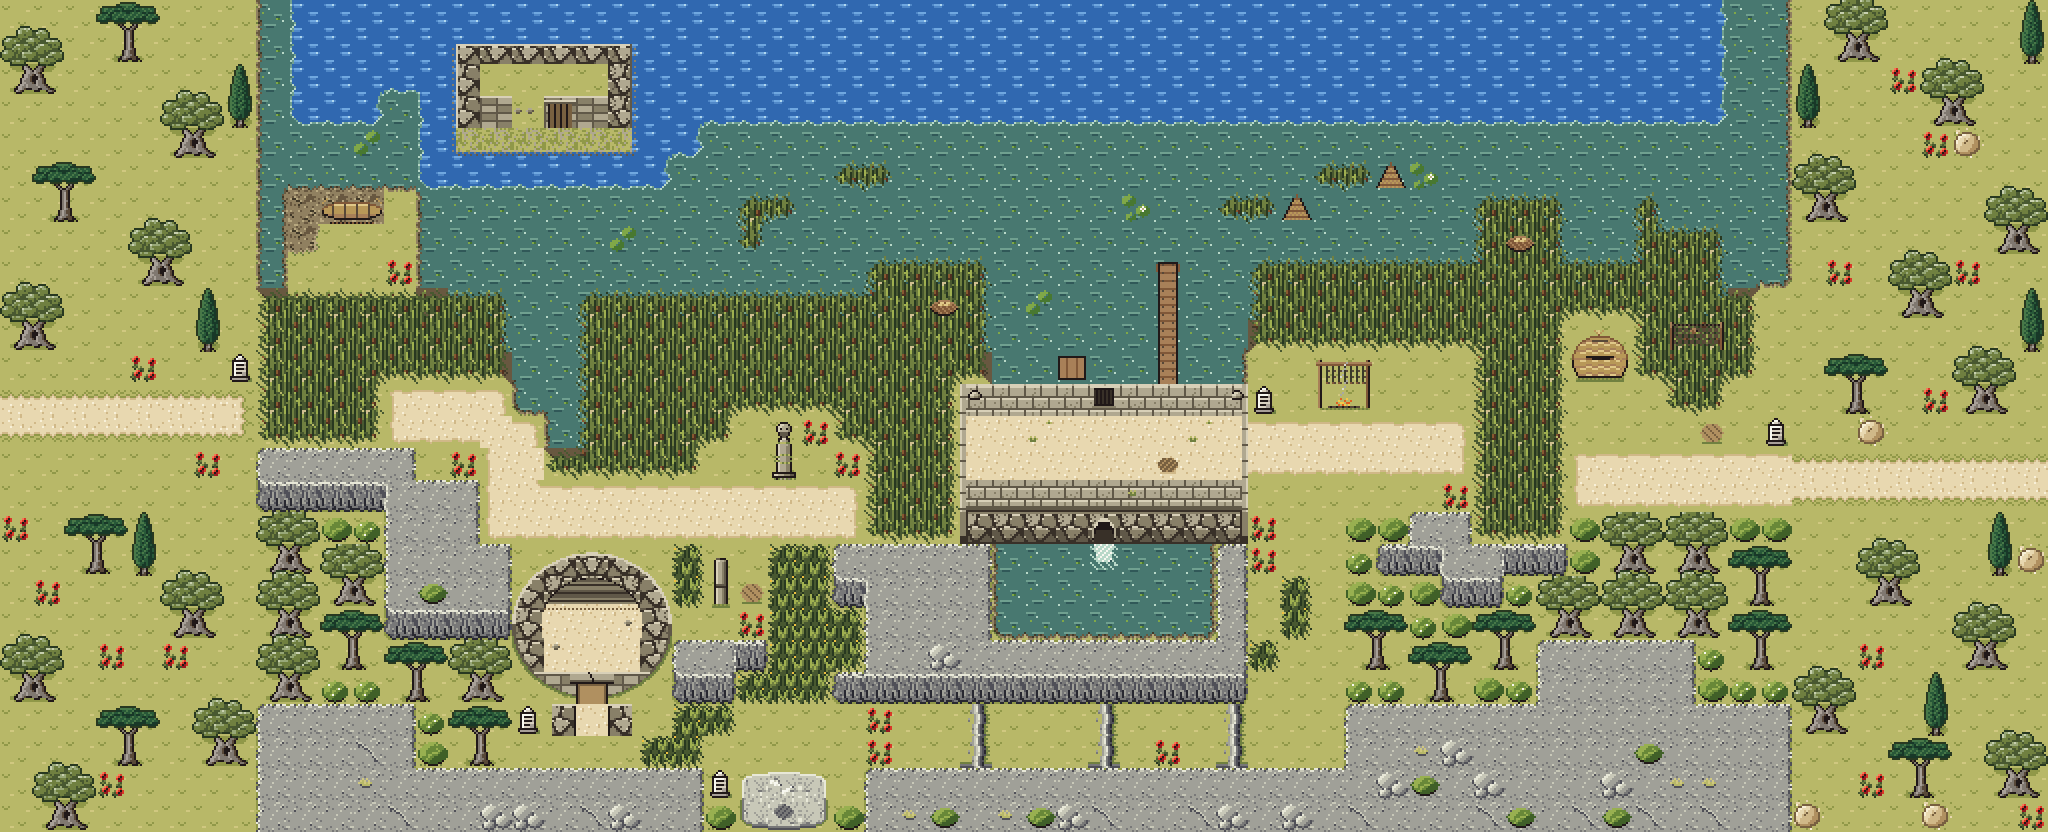
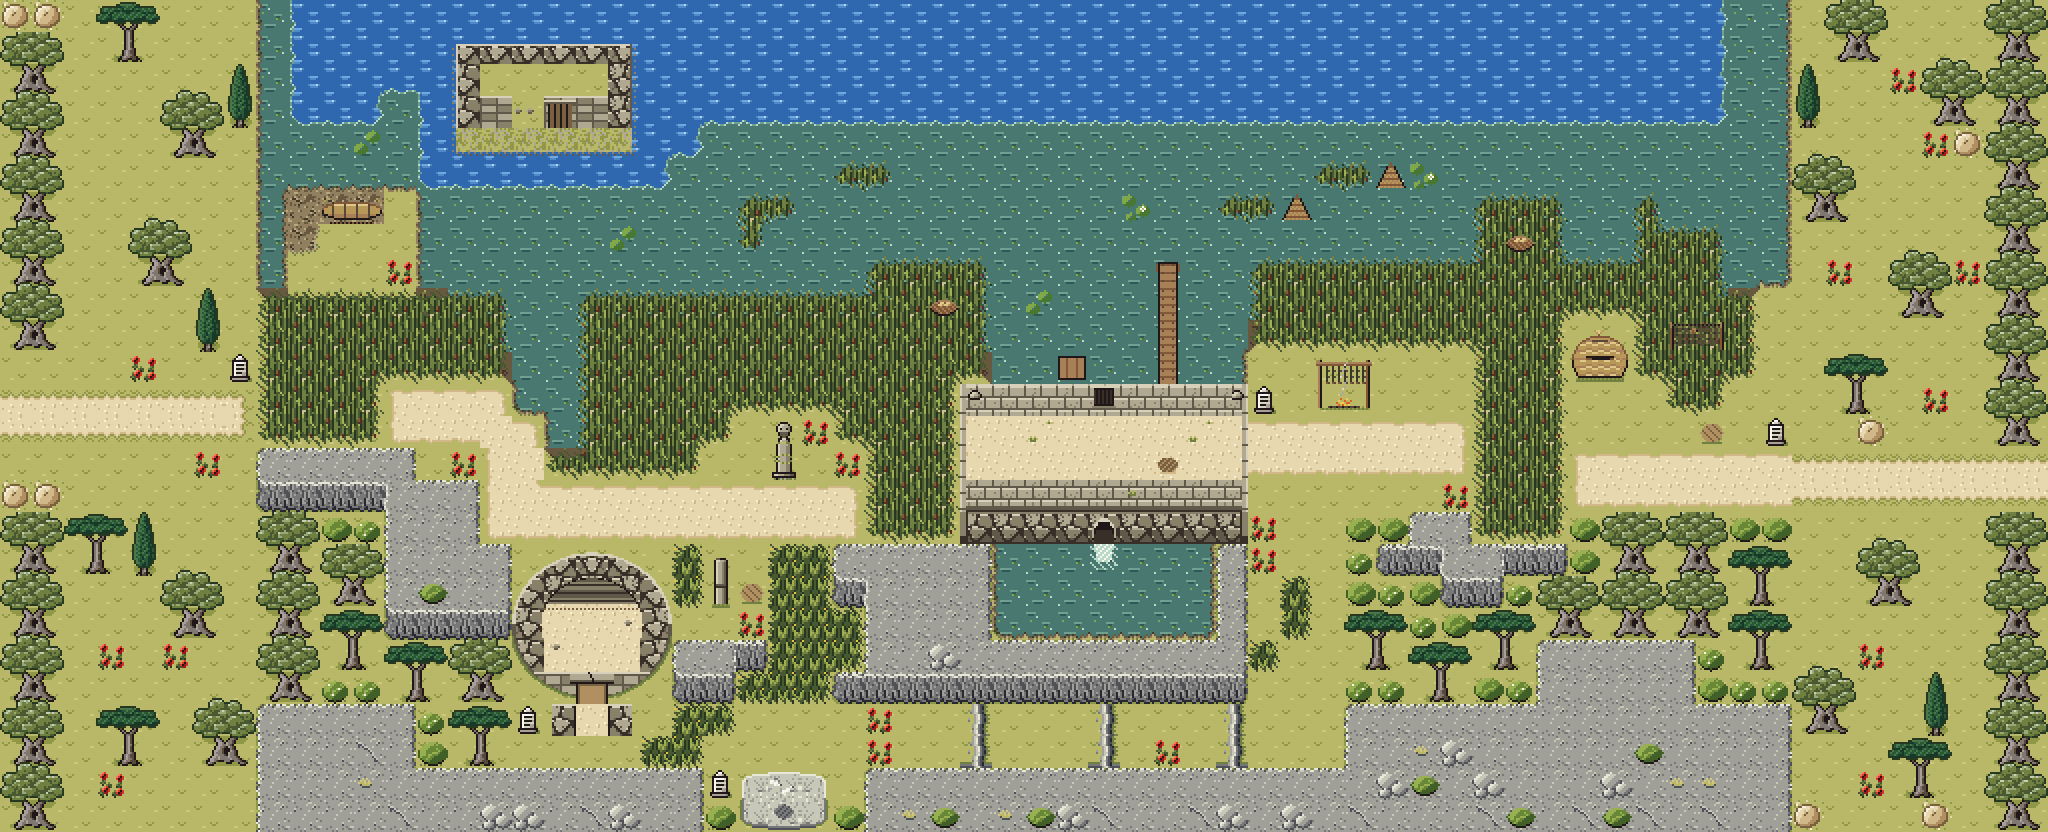
feat(map): bring Route 8 up to the route standard
MAP_DESIGN section 8 asks an 11-screen middle route for seven trainers, and its
audit found both edges open the whole height into the neighbors' rock. Two
Boeotian trainers join the road (Pelopidas in band 2, Megareus at Onchestos),
the edges close to the agreed road rows, and Route 8's own connection to Thyrsa
lets the audit measure the forced grass (10 cells).

diff --git a/tools/ichor/maps/kopais.py b/tools/ichor/maps/kopais.py
@@ -482,6 +482,7 @@ def stamps(m):
             m.named("water_bits", n, x, y)
     # aethos trees and signs
     m.olives = set()
+    edge_walls(m)
     m.put(7, 11, STELE)                                          # the west sign
     m.put(55, 13, STELE)                                         # the east sign
     m.put(39, 12, STELE)                                         # the dike's sign
@@ -508,6 +509,30 @@ def stamps(m):
             m.put(x, y, BOULDER)
 
 
+def edge_walls(m):
+    """Close both edges except where the roads cross the seams (Lebadeia's road and
+    verges, rows 11-14; Thyrsa's gate road, rows 14-15): a column of olives along each
+    edge, stacked crown over trunk, with a boulder where a pair of rows is left over."""
+    def column(x, rows):
+        rows = list(rows)
+        while len(rows) >= 2:
+            pass_rows = rows[-2:]
+            y = pass_rows[0]
+            below = (x, y + 2) in m.olives
+            m.put(x, y, OLIVE_TOP[0]); m.put(x + 1, y, OLIVE_TOP[1])
+            bot = OLIVE_STACK if below else OLIVE_BOT
+            m.put(x, y + 1, bot[0]); m.put(x + 1, y + 1, bot[1])
+            m.olives.add((x, y))
+            rows = rows[:-2]
+        for y in rows:
+            m.put(x, y, BOULDER)
+            m.put(x + 1, y, BOULDER)
+    column(0, range(0, WEST_ROAD - 1))                     # rows 0-10
+    column(0, range(WEST_ROAD + 3, H))                     # rows 15-25
+    column(62, range(0, EAST_ROAD))                        # rows 0-13
+    column(62, range(EAST_ROAD + 2, H))                    # rows 16-25
+
+
 def tree(m, x, y, kind):
     if any((xx, yy) in m.stamped or m.at(xx, yy) != "." for xx in (x, x + 1) for yy in (y, y + 1)):
         return
@@ -526,6 +551,10 @@ def events(m):
     E = {
         "connections": [
             {"map": "MAP_LEBADEIA", "offset": 0, "direction": "left"},
+            # Thyrsa's Neistan Gate: its west edge is open on rows 23-24, Route 8's east
+            # edge on rows 14-15 (BUILD.md, q = 14). Thyrsa's side ("left", offset +9) is
+            # added at integration.
+            {"map": "MAP_THYRSA_CITY", "offset": EAST_ROAD - 23, "direction": "right"},
         ],
         "object_events": [
             # the east end: Gorgidas netting birds at the reed edge, Alethea's first note
@@ -544,6 +573,13 @@ def events(m):
             obj(P + "MAN", 25, 14, S8 + "Traveler", "MOVEMENT_TYPE_FACE_LEFT",
                 flag="FLAG_ICHOR_THEOXENIA_START+0x22", local_id="LOCALID_ROUTE8_TRAVELER"),
             # Timoxena in the reeds, facing the water; an Ultra Ball deep in them
+            # Pelopidas, crouched in band 2 watching the reeds for birds: his sight
+            # runs down through the band (the route standard's sixth trainer)
+            obj(P + "FOWLER", 28, 10, S8 + "Pelopidas", "MOVEMENT_TYPE_FACE_DOWN", trainer=True,
+                sight=5, local_id="LOCALID_ROUTE8_PELOPIDAS"),
+            # Megareus, a runner training at Onchestos's racing post, watching the road
+            obj(P + "YOUTH_M", 21, 17, S8 + "Megareus", "MOVEMENT_TYPE_FACE_UP", trainer=True,
+                sight=2, local_id="LOCALID_ROUTE8_MEGAREUS"),
             obj(P + "FOWLER_F", 21, 9, S8 + "Timoxena", "MOVEMENT_TYPE_FACE_UP", trainer=True,
                 sight=2, local_id="LOCALID_ROUTE8_TIMOXENA"),
             item_ball(18, 10, "ITEM_ULTRA_BALL", "FLAG_ICHOR_ITEM_ROUTE8_ULTRA_BALL"),

diff --git a/tools/ichor/tests/act2_route8_consts.c b/tools/ichor/tests/act2_route8_consts.c
@@ -7,6 +7,7 @@
 #include "constants/ichor.h"
 #include "constants/items.h"
 #include "constants/map_groups.h"
+#include "constants/map_event_ids.h"
 #include "constants/moves.h"
 #include "constants/opponents.h"
 #include "constants/script_commands.h"
@@ -31,6 +32,12 @@ K(TRAINER_ISMENIAS, TRAINER_ICHOR_ISMENIAS)
 K(TRAINER_TIMOXENA, TRAINER_ICHOR_TIMOXENA)
 K(TRAINER_PERSES, TRAINER_ICHOR_PERSES)
 K(TRAINER_EUPHROSYNE, TRAINER_ICHOR_EUPHROSYNE)
+K(TRAINER_PELOPIDAS, TRAINER_ICHOR_PELOPIDAS)
+K(TRAINER_MEGAREUS, TRAINER_ICHOR_MEGAREUS)
+K(SCR_OP_CLEARFLAG, SCR_OP_CLEARFLAG)
+K(SCR_OP_ADDOBJECT, SCR_OP_ADDOBJECT)
+K(FLAG_TEMP_ENIGMAW, FLAG_TEMP_11)
+K(LOCALID_ENIGMAW, LOCALID_ROUTE8_ENIGMAW)
 
 // The flags the road reads and sets
 K(FLAG_ACT2_BEGUN, FLAG_ICHOR_ACT2_BEGUN)

diff --git a/include/constants/opponents.h b/include/constants/opponents.h
@@ -105,7 +105,9 @@
 #define TRAINER_ICHOR_ANTHIA                  214
 #define TRAINER_ICHOR_PROKRIS                 215
 #define TRAINER_ICHOR_KALLISTO_1              216
-#define TRAINERS_END_ACT2                     217
+#define TRAINER_ICHOR_PELOPIDAS               217
+#define TRAINER_ICHOR_MEGAREUS                218
+#define TRAINERS_END_ACT2                     219
 
 // world-act3, ids 320-499: Kythera, Knossa, Lakonia, Delphoi, the Frozen Hour, Olympus.
 #define TRAINERS_END_ACT3                     0

diff --git a/design/phase3/TILES_kopais.md b/design/phase3/TILES_kopais.md
@@ -295,7 +295,8 @@ Thyrsa's side (Gla's two excepted: the Conch), which reed patches are forced, wh
 trainer's sight line is mandatory, and that a trainer who walks up to the player never ends up
 blocking the road. Today: three forced bands (band 1 at x 46-48, band 2 at x 27-29, band 3 at
 x 8-11, each the full height between the water and the rock), 216 grass cells of which 194 are
-reeds; Ismenias and Perses are mandatory, Gorgidas, Timoxena and Euphrosyne optional.
+reeds; Ismenias and Perses are mandatory, Gorgidas, Pelopidas, Megareus, Timoxena and
+Euphrosyne optional (each of those still stands where most players walk).
 
 ### The art
 
@@ -345,6 +346,26 @@ reeds; Ismenias and Perses are mandatory, Gorgidas, Timoxena and Euphrosyne opti
    reloaded. The jog is two tiles wide now ((16,13) is road), and the builder checks every
    trainer's stopping place against the road. Left as is: the scrub east of band 1 still reads
    a little planted at 2x; it reads as a hillside at GBA scale.
+5. **Pass 5** (the route standard, MAP_DESIGN section 8, `tools/ichor/map_audit.py`). An
+   11.1-screen middle route needs seven trainers: two more stand on the road now, Pelopidas
+   (a fowler crouched in band 2, watching it, sight 5) and Megareus (a runner at the
+   Onchestos post, watching the road). The audit's edge check found the west and east edges
+   open the whole height, walking into the neighbors' rock and trees: both edges are closed
+   now by a column of olives, except Lebadeia's road and verges (rows 11-14) and Thyrsa's
+   gate road (rows 14-15). Route 8's `right` connection to Thyrsa is in its map.json, so the
+   audit can measure forced grass between the ends: 10 cells (bands of 3, 3 and 4).
+
+**`map_audit.py Route8_Kopais`** (2026-11-14):
+
+```text
+Route8_Kopais  [route, Arkadia, middle]
+  64x26 = 11.1 screens; grass 216 (19/screen, 13%); water 24%; forced grass 10; trainers 7; items 6 + 4 hidden; signs 13; NPCs 9; wild: land MN (10/9 spp), surf M (4 spp), fish M (4 spp), Lv 27–30
+  WARN  edge: open edge cells (0, 11)-(0, 14) walk left into solid Lebadeia (27, 11)-(27, 14)
+  NOTE  wild: no _Day land table (day falls back to morning)
+```
+
+The one warning is Lebadeia's placeholder layout (a copy of an Act I map): the parnassos
+agent's Lebadeia opens its road and verges on those rows.
 
 ### Deviations
 
@@ -367,6 +388,9 @@ reeds; Ismenias and Perses are mandatory, Gorgidas, Timoxena and Euphrosyne opti
   and the dike: "a quick way home".
 - **Gorgidas is optional.** He nets birds at the reed edge facing the road (sight 3 covers
   the road), but the reed bed behind him lets a player go round.
+- **Two trainers SCRIPT.md doesn't name,** for the route standard: FOWLER Pelopidas (Gorgidas's
+  partner: the two founded Thebes's Sacred Band) and RUNNER Megareus (named for Onchestos's
+  king, Hippomenes's father), Lv 30-31, in `design/phase3/parties/kopais.party`.
 - **Extra rewards** beyond Part 6's list, for MAP_DESIGN's "every dead end pays" and the
   user's call for optional grass with a reason: an Ultra Ball deep in Timoxena's reeds, a
   Full Heal on the reed-boat shore, a hidden Nugget in the Treasury's wall ("a king so rich he

diff --git a/design/phase3/BUILD.md b/design/phase3/BUILD.md
@@ -87,7 +87,7 @@ Parties are staged in `design/phase3/parties/{kopais,trophonios,parnassos,harbor
 
 | Seam | Columns or rows | Owner |
 |---|---|---|
-| Thyrsa's Neistan Gate → Route 8's east edge | Thyrsa's west edge is open only on rows 23–24. Route 8's road meets its east edge on rows *q*…*q*+1, the kopais agent's choice, recorded here; seam strips aethos-only (8 columns, Part 10). This session adds both connections at integration (Thyrsa's map.json is the polish-thyrsa agent's builder's). **q = 14** (kopais, 2026-11-14): Route 8's road reaches its east edge on rows 14–15, with grass verges on 13 and 16, and columns 56–63 are aethos only (Thyrsa's olive grove runs on into them: olives, cypresses, boulders, the road on aethos's limestone patch). Connections: Thyrsa `left` to Route 8 with offset −9; Route 8 `right` to Thyrsa with offset +9. | kopais |
+| Thyrsa's Neistan Gate → Route 8's east edge | Thyrsa's west edge is open only on rows 23–24. Route 8's road meets its east edge on rows *q*…*q*+1, the kopais agent's choice, recorded here; seam strips aethos-only (8 columns, Part 10). This session adds both connections at integration (Thyrsa's map.json is the polish-thyrsa agent's builder's). **q = 14** (kopais, 2026-11-14): Route 8's road reaches its east edge on rows 14–15, with grass verges on 13 and 16, and columns 56–63 are aethos only (Thyrsa's olive grove runs on into them: olives, cypresses, boulders, the road on aethos's limestone patch). Connections: Route 8 `right` to Thyrsa with offset −9 (in Route 8's map.json now); Thyrsa `left` to Route 8 with offset +9, to add at integration. The game reads a neighbor's row as this map's row minus the offset (as Route 7's `up` −6 to Thyrsa does), so the "*q* − 23 / 23 − *q*" in the batch 1 row below is the wrong way round; `map_audit.py`'s seam check agrees with these. | kopais |
 | Route 8's west edge ↔ Lebadeia's east edge | **fixed now**: both maps' roads on rows 12–13 (verges 11 and 14), offset 0 both ways; seam strips aethos-only (different secondaries) | kopais, parnassos |
 | Lebadeia's west edge ↔ Route 9's east edge | the parnassos agent's choice (one tileset, no strip) | parnassos |
 | Route 9's south edge ↔ Kirrha's north edge | **fixed now**: Route 9's road at columns 8–11 (verges 8 and 11), Kirrha's at 26–29; Route 9 `down` offset −18, Kirrha `up` offset +18; seam strips aethos-only | parnassos, harbors |
